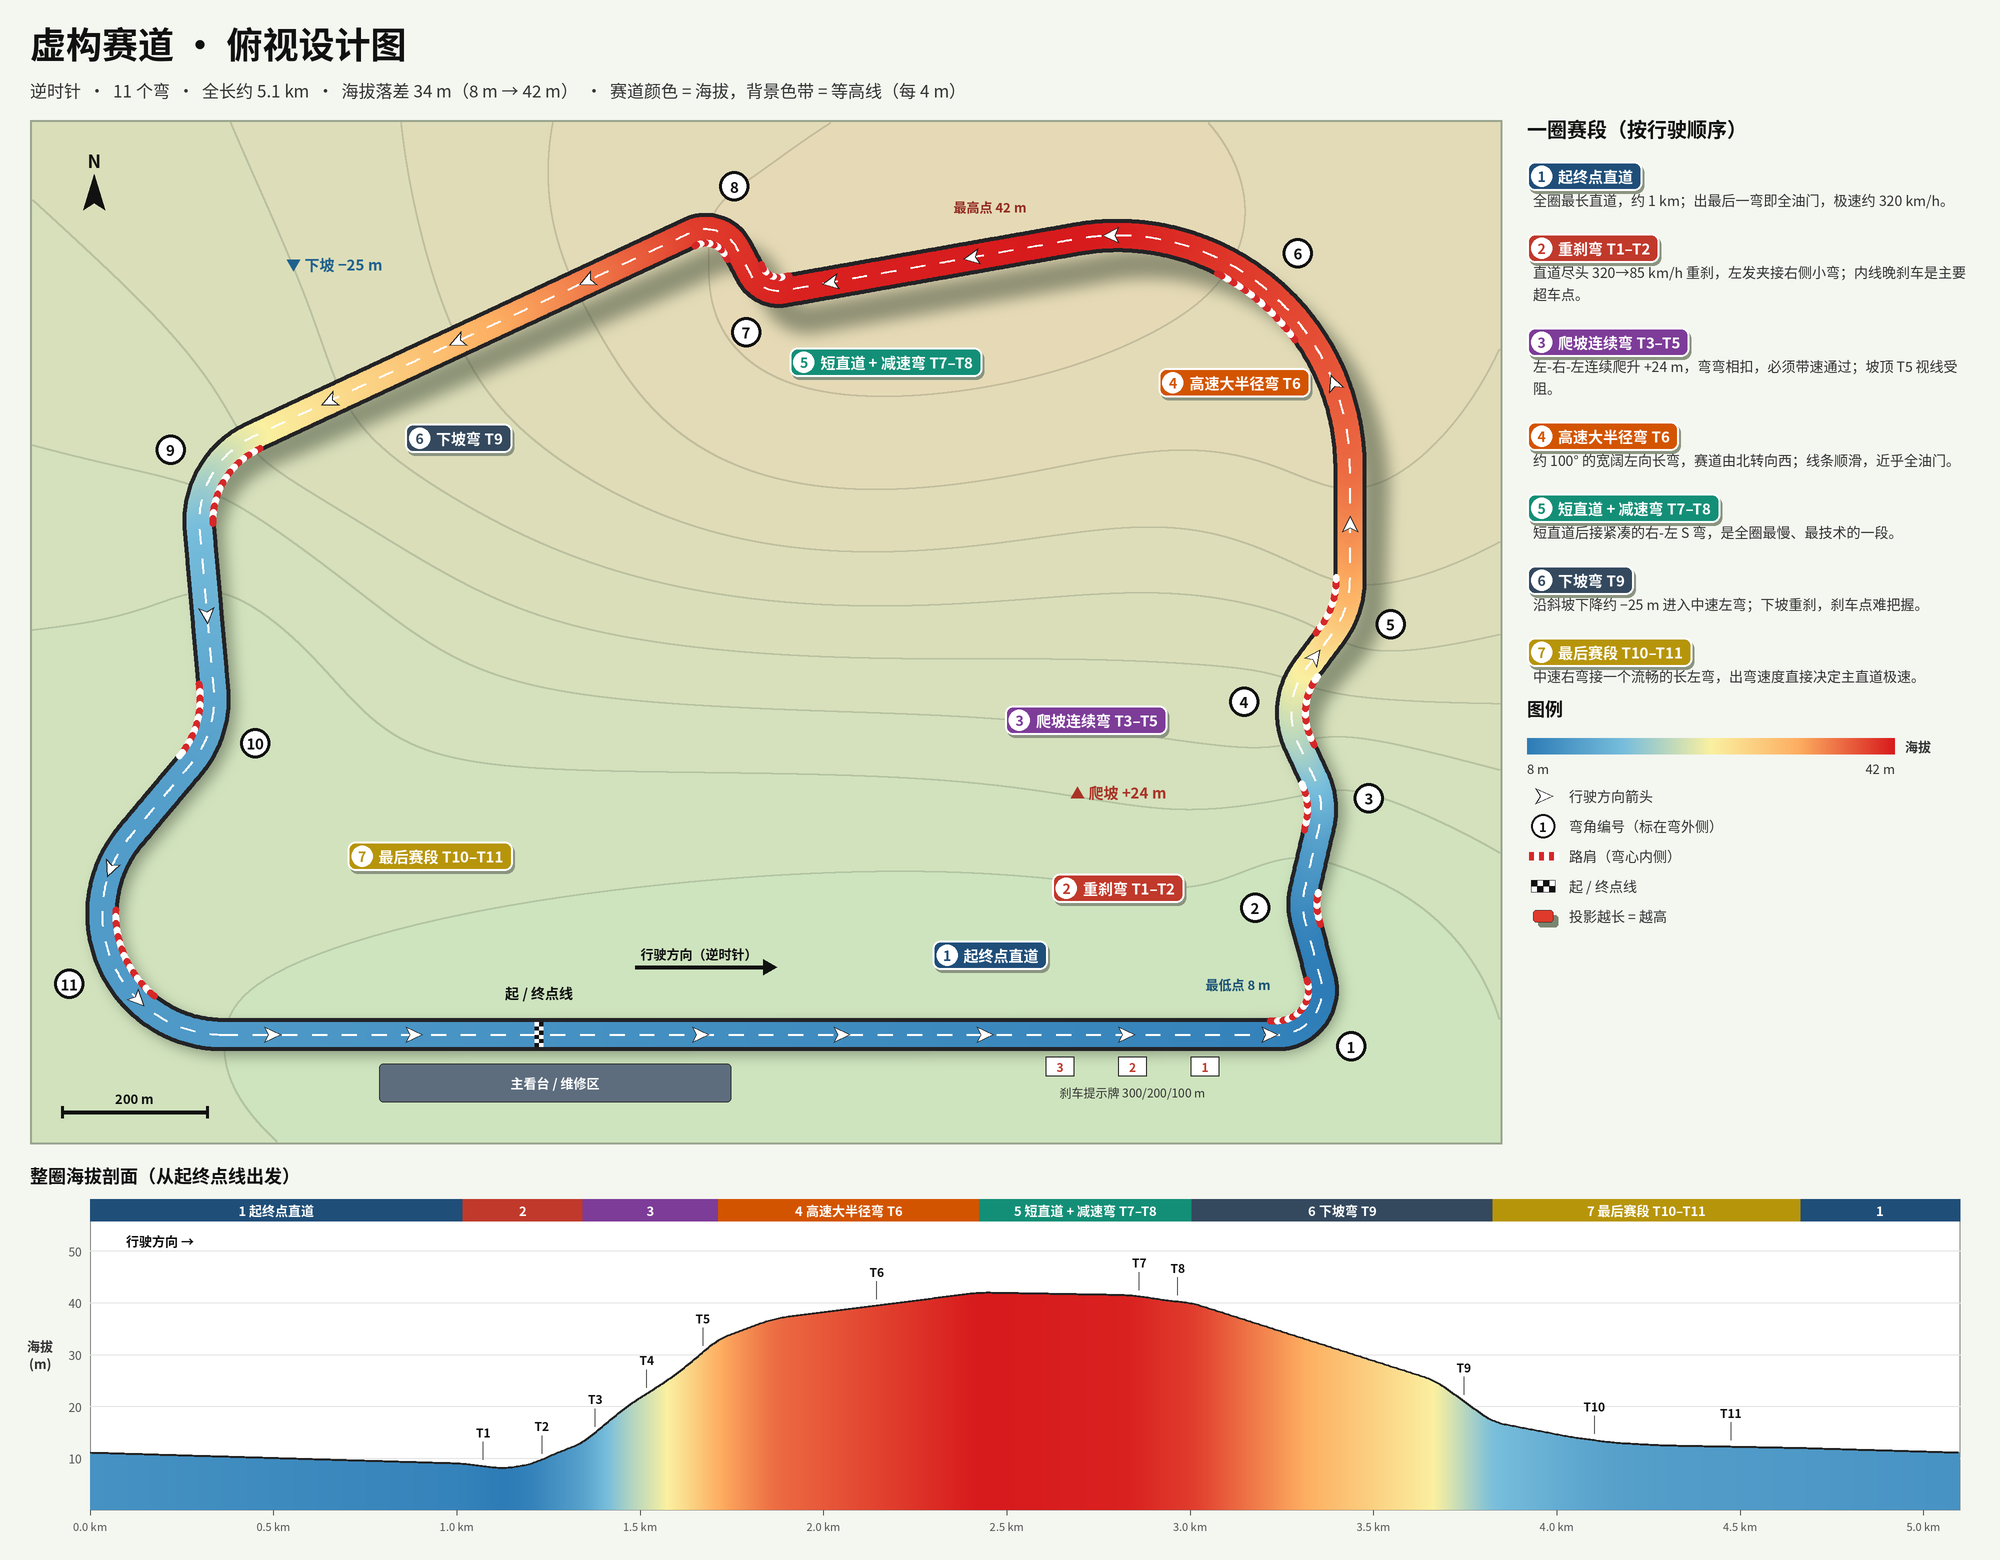
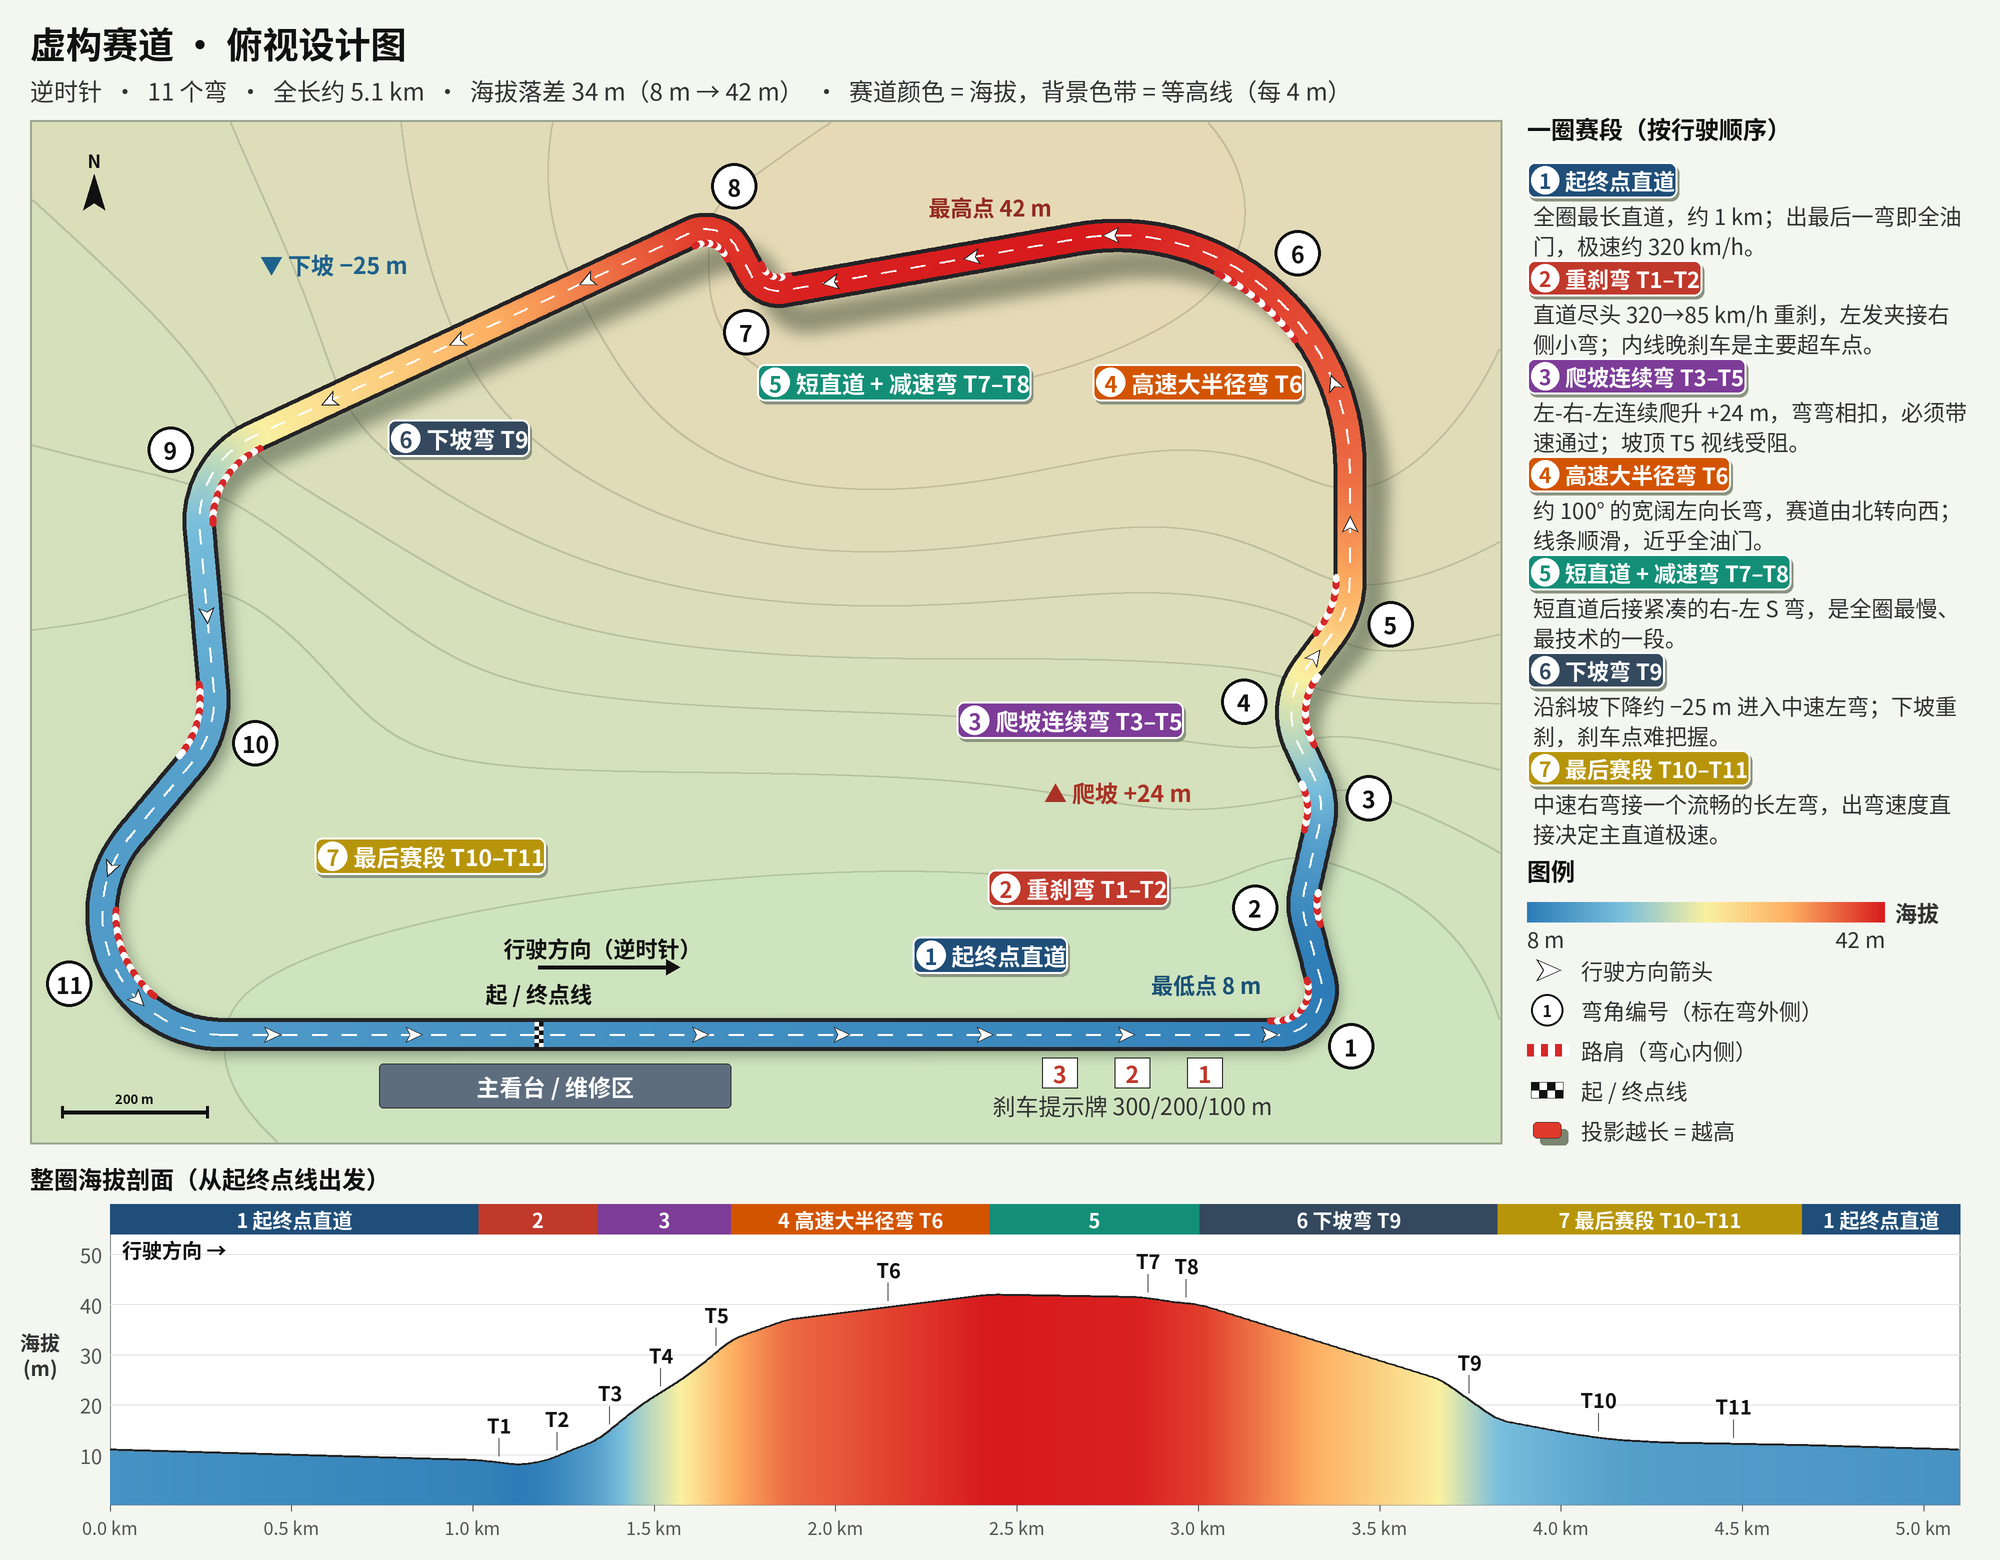
update fonts size

diff --git a/scripts/storyboard_map.py b/scripts/storyboard_map.py
@@ -78,8 +78,26 @@ def draw(storyboard, out, en, zoom=None):
     c = (sum(p[0] for p in allp) / len(allp), sum(p[1] for p in allp) / len(allp))
     kids = [sb["shots"][0]["first"]] + [s["last"] for s in sb["shots"]]
     zshots, zkeys = (zoom[0], zoom[1]) if zoom else ((), ())
+    legend = [
+        "○ 关键帧：镜头交界处的车手视角画面",
+        f"   第 i 个镜头从 K(i-1) 开到 K(i)；{kids[0]} 和 {kids[-1]} 都在起终点线上",
+        "▶ 行驶方向（逆时针）",
+        f"工作流：{sb['name']}_shot_0i 拍镜头 i",
+    ] if not en else [
+        "○ Keyframe: the onboard view at a shot boundary",
+        f"   shot i drives K(i-1) → K(i); {kids[0]} and {kids[-1]} are both on the start line",
+        "▶ Driving direction (anticlockwise)",
+        f"Workflow {sb['name']}_shot_0i shoots shot i",
+    ]
+    # each shot's detail line breaks before the turns when it does not fit beside the badge
+    PW, small = t(700, 860), common.font(27)
+    details = []
+    for s in sb["shots"]:
+        head, turns = f"{s['first']} → {s['last']} · {s['duration']:g} {t('秒', 's')}", t(s["turns"], s["turns_en"])
+        details.append([f"{head} · {turns}"] if small.getlength(f"{head} · {turns}") <= PW - 122 else [head, turns])
+    panel_bottom = 212 + sum(70 + 36 * len(lines) for lines in details) + 10 + 40 * len(legend)
 
-    img = Image.new("RGB", (W + t(700, 860), H + TOP), "white")
+    img = Image.new("RGB", (W + PW, max(H + TOP, panel_bottom + 30)), "white")
     img.paste(track_layer(base, segs, 1), (0, TOP))
     d = ImageDraw.Draw(img)
     nshots = len(sb["shots"])
@@ -124,28 +142,17 @@ def draw(storyboard, out, en, zoom=None):
     x0, y = W + 30, 150
     d.text((x0, y), t("镜头 · 赛段 · 首帧 → 尾帧 · 时长", "Shot · sector · first → last frame · length"), font=common.font(30, True), fill="#222")
     y += 62
-    for i, s in enumerate(sb["shots"]):
+    for i, (s, lines) in enumerate(zip(sb["shots"], details)):
         d.ellipse((x0, y, x0 + 44, y + 44), fill=COLORS[i])
         d.text((x0 + 22, y + 22), str(s["id"]), font=common.font(26, True), fill="white", anchor="mm")
-        d.text((x0 + 62, y - 2), t(s["title"], s["title_en"]), font=common.font(29, True), fill="#222")
-        d.text((x0 + 62, y + 36), f"{s['first']} → {s['last']} · {s['duration']:g} {t('秒', 's')} · {t(s['turns'], s['turns_en'])}",
-               font=common.font(22), fill="#555")
-        y += 96 if nshots > 7 else 104
+        d.text((x0 + 62, y - 4), t(s["title"], s["title_en"]), font=common.font(32, True), fill="#222")
+        for j, line in enumerate(lines):
+            d.text((x0 + 62, y + 42 + 36 * j), line, font=small, fill="#444")
+        y += 70 + 36 * len(lines)
     y += 10
-    legend = [
-        "○ 关键帧：镜头交界处的车手视角画面",
-        f"   第 i 个镜头从 K(i-1) 开到 K(i)；{kids[0]} 和 {kids[-1]} 都在起终点线上",
-        "▶ 行驶方向（逆时针）",
-        f"工作流：{sb['name']}_shot_0i 拍镜头 i",
-    ] if not en else [
-        "○ Keyframe: the onboard view at a shot boundary",
-        f"   shot i drives K(i-1) → K(i); {kids[0]} and {kids[-1]} are both on the start line",
-        "▶ Driving direction (anticlockwise)",
-        f"Workflow {sb['name']}_shot_0i shoots shot i",
-    ]
     for line in legend:
-        d.text((x0, y), line, font=common.font(23), fill="#444")
-        y += 36
+        d.text((x0, y), line, font=common.font(25), fill="#444")
+        y += 40
     img.save(out, optimize=True)
     print("wrote", out, img.size)
 

diff --git a/scripts/make_notebooks.py b/scripts/make_notebooks.py
@@ -390,7 +390,9 @@ def pick(patterns, src_dir, dst):
 The task: from this map, generate an onboard video that drives one full lap. Outline (in Chinese): `docs/ch1_map.md`.
 """),
     code("""
-show(PROJECT / "assets" / "fictional_track_v1.png", width=900)
+show(PROJECT / "assets" / "fictional_track_v1.png", width=1000)
+""", """
+show(PROJECT / "assets" / "fictional_track_v1_en.png", width=1000)
 """),
     md("""
 ## 第 2 章：一个提示词跑一圈
